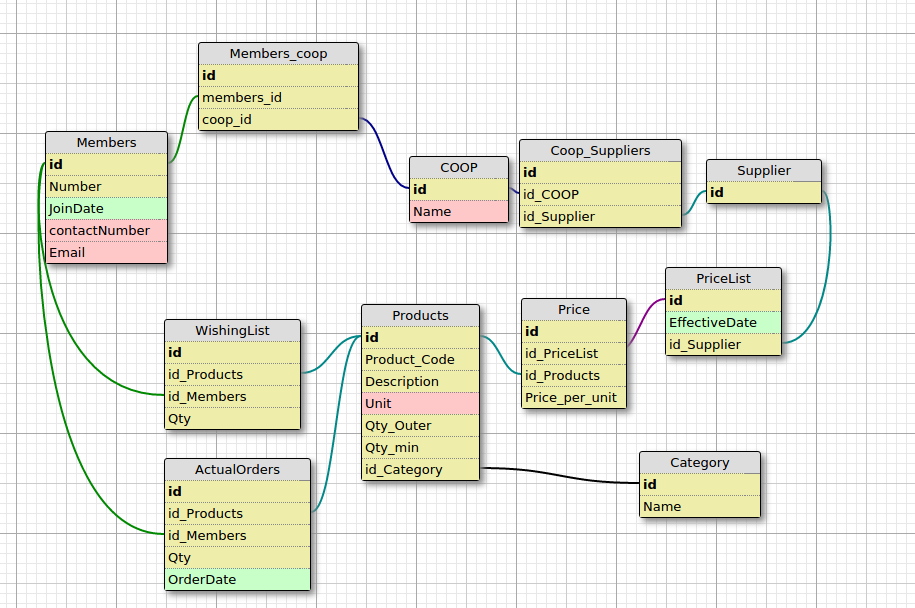
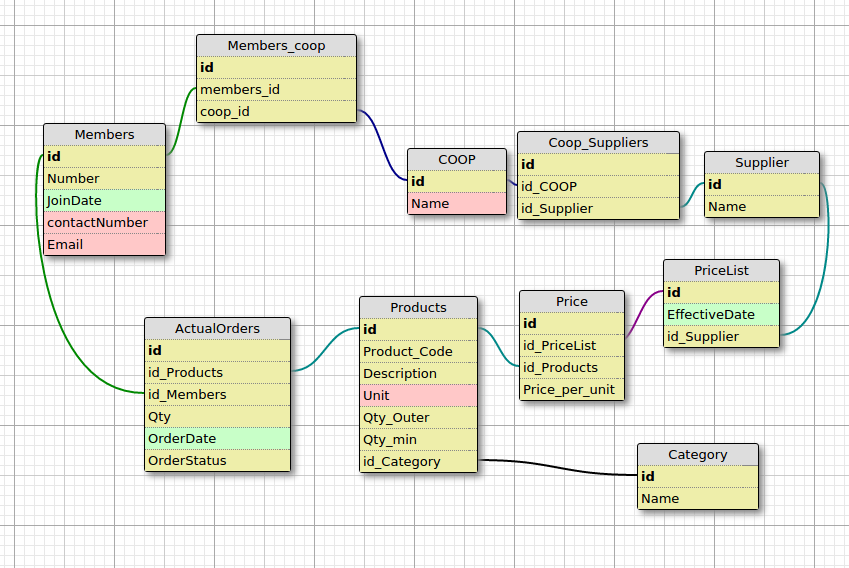
changed models

diff --git a/db/migrate/20160104023618_create_orders.rb b/db/migrate/20160104023618_create_orders.rb
@@ -1,10 +1,11 @@
-class CreateActualOrders < ActiveRecord::Migration
+class CreateOrders < ActiveRecord::Migration
   def change
-    create_table :actual_orders do |t|
+    create_table :orders do |t|
       t.decimal :qty
       t.date :order_date
       t.references :product, index: true, foreign_key: true
       t.references :member, index: true, foreign_key: true
+      t.int :status
 
       t.timestamps null: false
     end

diff --git a/test/models/order_test.rb b/test/models/order_test.rb
@@ -1,6 +1,6 @@
 require 'test_helper'
 
-class WishingListTest < ActiveSupport::TestCase
+class OrderTest < ActiveSupport::TestCase
   # test "the truth" do
   #   assert true
   # end

diff --git a/app/models/member.rb b/app/models/member.rb
@@ -1,2 +1,5 @@
 class Member < ActiveRecord::Base
+  has_many :actual_orders
+  has_many :wishing_lists
+  has_many :coops, through: :members_coop
 end

diff --git a/app/models/coop.rb b/app/models/coop.rb
@@ -1,2 +1,4 @@
 class Coop < ActiveRecord::Base
+  has_many :members, through: :members_coop
+  has_many :suppliers, through: :coop_suppliers  
 end

diff --git a/app/models/order.rb b/app/models/order.rb
@@ -1,4 +1,4 @@
-class ActualOrder < ActiveRecord::Base
+class Order < ActiveRecord::Base
   belongs_to :product
   belongs_to :member
 end

diff --git a/app/models/product.rb b/app/models/product.rb
@@ -1,2 +1,4 @@
 class Product < ActiveRecord::Base
+  has_many :actual_orders
+  has_many :wishing_lists
 end

diff --git a/app/models/supplier.rb b/app/models/supplier.rb
@@ -1,2 +1,3 @@
 class Supplier < ActiveRecord::Base
+  has_many :price_lists
 end
